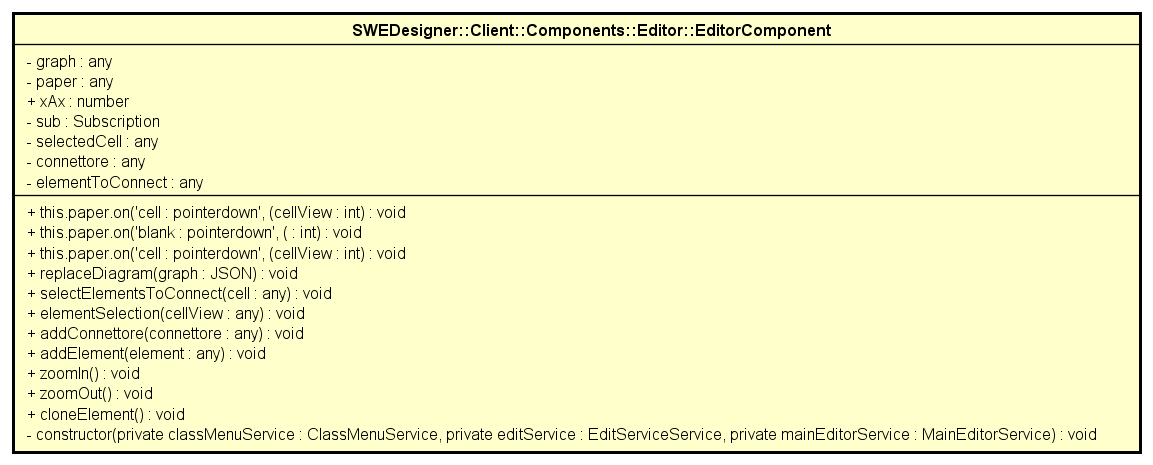
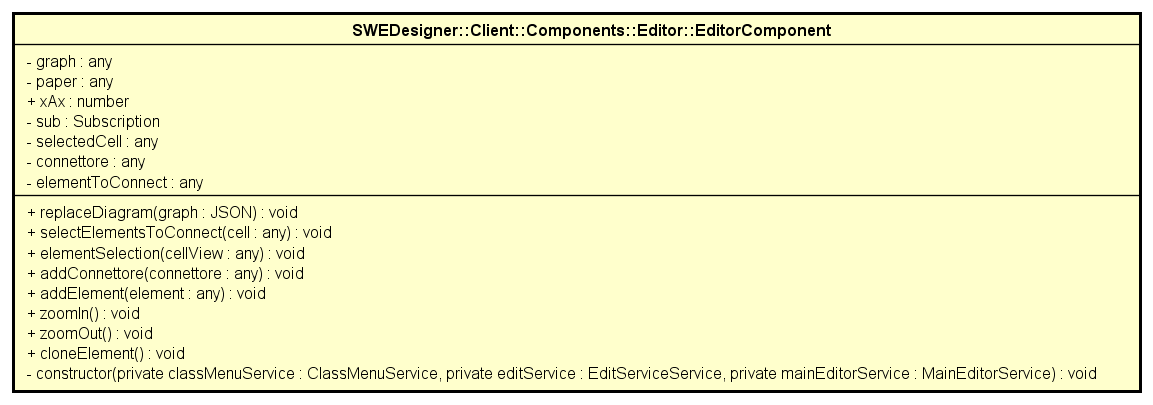
modifiche DP

Changed region(s): [[0.0, 0.0, 0.9991, 0.9778]]

diff --git a/Esterni/DefinizionediProdotto/res/sections/SpecificadelFrontEnd.tex b/Esterni/DefinizionediProdotto/res/sections/SpecificadelFrontEnd.tex
@@ -132,22 +132,6 @@ il server
             					\item \emph{private mainEditorService: MainEditorService}\\
             					Service MainEditorService
             				\end{itemize}
-          				\item \emph{+this.paper.on('cell:pointerdown', (cellView) =>: void}\\
-          				Questo metodo riconosce quando una classe viene cliccata e quindi la seleziona
-          				\item \textbf{Parametri:}\\
-            				\begin{itemize}
-            					\item \emph{cellView: any}\\
-            					Elemento cliccato
-            				\end{itemize}
-          				\item \emph{+this.paper.on('blank:pointerdown', () =>: void}\\
-          				Questo metodo riconosce quanto la classe viene deselezionata cliccando al di fuori di essa
-          				\item \emph{+this.paper.on('cell:pointerdown', (cellView) =>: void}\\
-          				
-          				\item \textbf{Parametri:}\\
-            				\begin{itemize}
-            					\item \emph{cellView: any}\\
-            					
-            				\end{itemize}
           				\item \emph{+replaceDiagram(graph: JSON): void}\\
           				Questo metodo viene utilizzato per rimpiazzare l'editor con una nuova finestra contenuta nel file JSON
           				\item \textbf{Parametri:}\\
